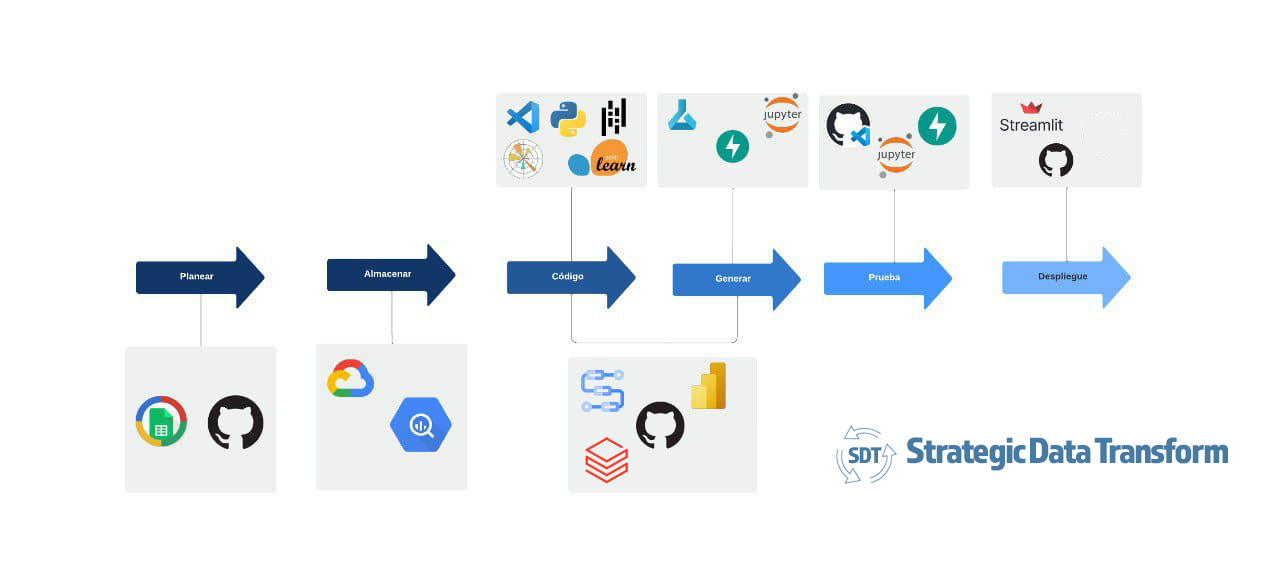
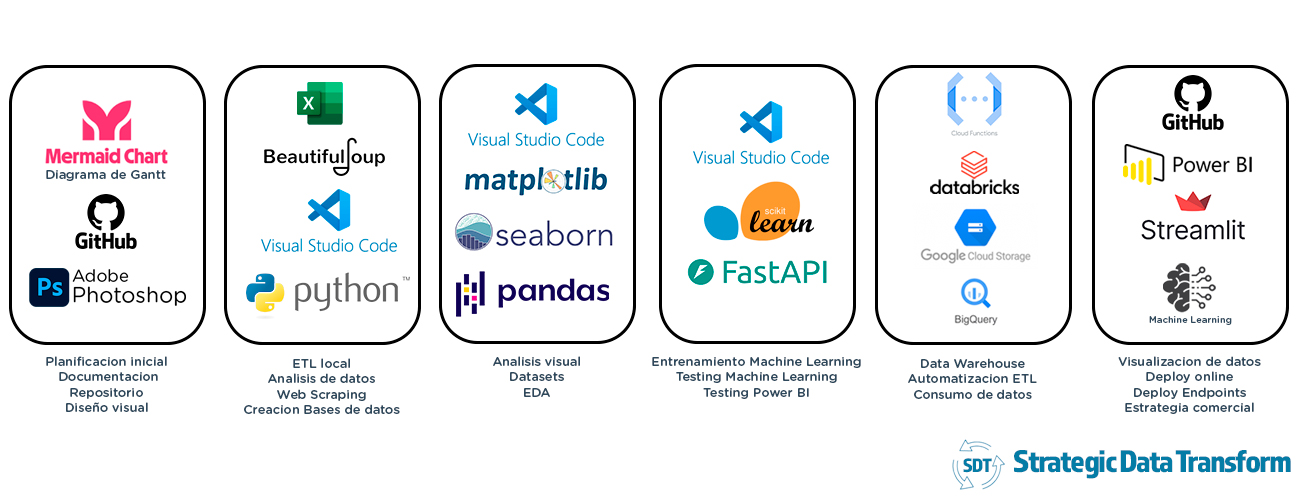
README

diff --git a/README.md b/README.md
@@ -3,97 +3,30 @@
 ![rendered image description](imagenes/readme.jpg)
 </div>
 
+<div align="center">
 
-Greyhound quiere determinar que tipo de vehículo es el más óptimo para cada destino de viaje y asimismo contar con un estudio que le muestre si la viabilidad de realizar el proyecto con sus requerimientos es positiva, lo que conlleva a que nosotros como consultora hagamos diversos análisis de rentabilidad, impacto ambiental y viabilidad en el mercado de diferentes formas. 
-En este proyecto también se analizará el comportamiento frente a sus competidores directos (Taxis, Uber y Lyft) en la ciudad, lo cual brindará un contexto de análisis mucho más completo y amplio. 
-
-Para poder realizar el estudio se tomo como fuente de datos la siguiente página web: [Taxi & Limousine Commission](https://www.nyc.gov/site/tlc/index.page)
-
-Este proyecto consta de tres fases principales que se realizan implementando métodologías ágiles como Scrum, realizando reuniones diarias con el Product Manager para debatir los avances y reuniones semanales con el Product Owner para mostrar los entregables a cada fecha. Estas fases se cumplen gracias al equipo de trabajo conformado en los siguientes roles por:
-
-- Cristian Fontanilla - Data Scientist
-- Elizabeth Torres - Data Engineer
-- Marcelo Yuba - Data Analyst
-
-
-Así que a continuación se explicará que conlleva cada fase de este proyecto, que métodos y herramientas se usaron, y asimismo que análisis se realizaron.
+<h1><b>Stack Tecnologico</h1>
+</div>
 
 <div align="center">
 
-![Taxis](imagenes/)
+![rendered image description](imagenes/Stack_tecnologico.jpg)
 </div>
+<br>
+<h3>Estamos al corriente de las ultimas tecnologias para analisis de dato y creacion de modelos de entrenamiento de Machine Learning, para poder predecir el comportamiento de datos y asi llegar a las conclusiones pedidas por nuestro cliente, </h3>
+<br>
+<br>
 
-## **Sprint 1**
+<div align="center">
 
-En este primer sprint se hace el planteamiento del proyecto entendiendo la situación actual realizando un EDA preliminar, se plantean los obejtivos general y específicos, el alcance del proyecto, se determianan los KPIs y las métricas a utilizar. 
+<h1><b>Camino del dato</h1>
+</div>
+<div align="center">
 
-También se plantea el [*Stack Tecnológico*](https://github.com/micjb/FinalProject/blob/main/imagenes/Stack_tecnologico.jpg) a utilizar a lo largo del proyecto, con el debido cronograma en un [*diagrama de Gantt*](https://github.com/micjb/FinalProject/blob/main/Documentacion/Gantt.md) y las tareas delegadas para los diferentes roles y sus metodologías.
+![rendered image description](imagenes/grafico-ciclo-de-vida-del-dato.jpg)
+</div><br>
 
+<h3>De igual manera que sobre nuestras tecnologias, queremos que nuestro cliente este al tanto de como son tratados los datos, para asi tener una mejor comprension del trabajo realizado </h3>
 
-### Objetivo General del Proyecto
-Estudiar la viabilidad de incorporar vehículos eléctricos de transporte de pasajeros en la ciudad de Nueva York, con el fin de reducir la contaminación, de manera que sea rentable para la empresa, precisando la concentración en la demanda de los tipos de vehículos en las diferentes áreas de la ciudad.
-
-Y asimismo planteamos estos objetivos especificos como pilares para el desarrollo del mismo:
-
-- Analizar la viabilidad del proyecto teniendo en cuenta métricas de la demanda del mercado, para determinar cuáles serían los autos más recomendados para incursionar en este sector del transporte. 
-
-- Analizar los factores ambientales, ya que se quiere incursionar con vehículos que no generen tanta contaminación, teniendo en cuenta el tiempo de pre, durante y post pandemia como referencia del impacto ambiental en términos de calidad del aire. 
-
-- Evaluar el comportamiento del mercado con la nueva inversión de autos, con métricas relacionadas al número de viajes realizados, distancias recorridas por zonas, viajes entre las distintas zonas, estudio de tiempos de más alta demanda, entre otras. 
-
-### Indicadores Clave de Desempeño (KPIs)
- 
-**Para la viabilidad se propone:**
-
-**- Eficiencia operativa: Distancia recorrida por periodo de tiempo**
-
-Midiendo la distancia recorrida por los autos estudiados, podremos ver el comportamiento operativo, si aumenta o reduce la operación, así como también se puede ver que tanta es la acogida en el mercado.
-Este KPI es un indicativo de la viabilidad del proyecto, ya que a más distancia de actividad va a ser más sostenible el negocio en el tiempo.
-
-**Para el impacto ambiental se propone:**
-
-**- Emisiones de CO2**
-
-Podemos medir el impacto en la calidad del aire de los autos con los que operará Greyhound midiendo las emisiones de CO2, donde se pueden hacer análisis comparando las emisiones de los vehículos tradicionales de combustión interna, en periodos de tiempo diferentes.
-Este KPI se formula alineado con las prioridades del cliente de querer tener un menor impacto ambiental.
-
-Para poder formular este KPI se hizo una revisión de la data de los gases de efecto invernadero que deja el sector del transporte en la ciudad de Nueva York, tomada de [NYC Greenhouse Gas Inventories](https://climate.cityofnewyork.us/initiatives/nyc-greenhouse-gas-inventories/), de donde se calcula una tasa de emisiones de CO2 generada por unidad de energía consumida en BUT, la cual se toma de la distancia recorrida por los autos. 
-
-**Para la aceptación en el mercado se propone medir:**
-
-**- Ingresos en viajes por periodo de tiempo**
-
-Con este KPI se quiere medir si los ingresos de dinero por cada viaje aumentan con el pasar del tiempo, para este caso se planea un análisis con un aumento del 15% de ingresos para el año siguiente, teniendo en cuenta las demás cifras económicas de la ciudad. Con esta metríca podremos analizar si aumentan los ingresos junto con la cantidad de viajes. 
-
-Los detalles de los KPIs formulados se pueden ver [aquí.](https://github.com/micjb/FinalProject/blob/main/KPIs)
-
-## **Sprint 2**
-
-En esta segunda fase se organiza la infraestructura del proyecto con almacenamiento en la nube, desarrollando el pipeline completo para realizar el proceso de ETL automatizado, mediante **Google Cloud Plataform**.
-También se hizo un proceso de ETL local, el cual contribuyó en el desarrollo posterior del ETL automatizado, junto con el desarrollo de las funciones que desplegarían todo el proceso. La información más detallada de este proceso se puede ver en la carpeta de la documentación que está [aquí.](https://github.com/micjb/FinalProject/tree/main/Documentacion)
-Asimismo, la información más detallada del código del ETL la encuentras en la carpeta de este repositorio llamada [ETL.](https://github.com/micjb/FinalProject/tree/main/ETL)
-
-Para lograr esto, se plantea un workflow desde el almacenamiento de los datos en el storage, creando un *bucket* de almacenamiento que reciban los datos cargados mediante *webscrapping*.
-Más detalles de la forma en como se hizo el scrapping está en el repositprio y se pude ver aquí: [**Scrapping.**](https://github.com/micjb/FinalProject/tree/main/Scraping)
-
-Seguido del esto, se crean [**Cloud Functions**](https://github.com/micjb/FinalProject/tree/main/ETL/Functions%20GCP) con los scripts que hacen el ETL, para que cada vez que se cargue un archivo en el storage se active la cloud function para que realice el proceso de ETL automatizado, y una vez hecho el ETL se activa otra cloud function para enviar el dataset ya transformado y limpio a **BigQuery**.
-
-Una vez esté almacenado el dataset limpio en BigQuery, estará disponible para hacer las consultas que se requieran, y también para poderse conectar con las demás herramientas para el proceso de análisis posterior. 
-
-## **Sprint 3**
-
-En esta última fase se tienen como actividades principales la realización del Dashboard interactivo, la realización de un EDA profundo junto con sus respectivos análisis y conclusiones y la realización del modelo de machine learning deployado. 
-
-El dashborad fue realizado en *Power BI*, mostrando de manera interactiva el relacionamiento de los datos de los Taxis de NYC, datos de Uber y de Lyft, con el fin de realizar análisis de competidores. También se encuentran los KPIs debidamente representados para medir los ítems principales del proyecto. 
-
-
-
-
-
-
- 
-
-
-
-
-
+<br>
+<br>
